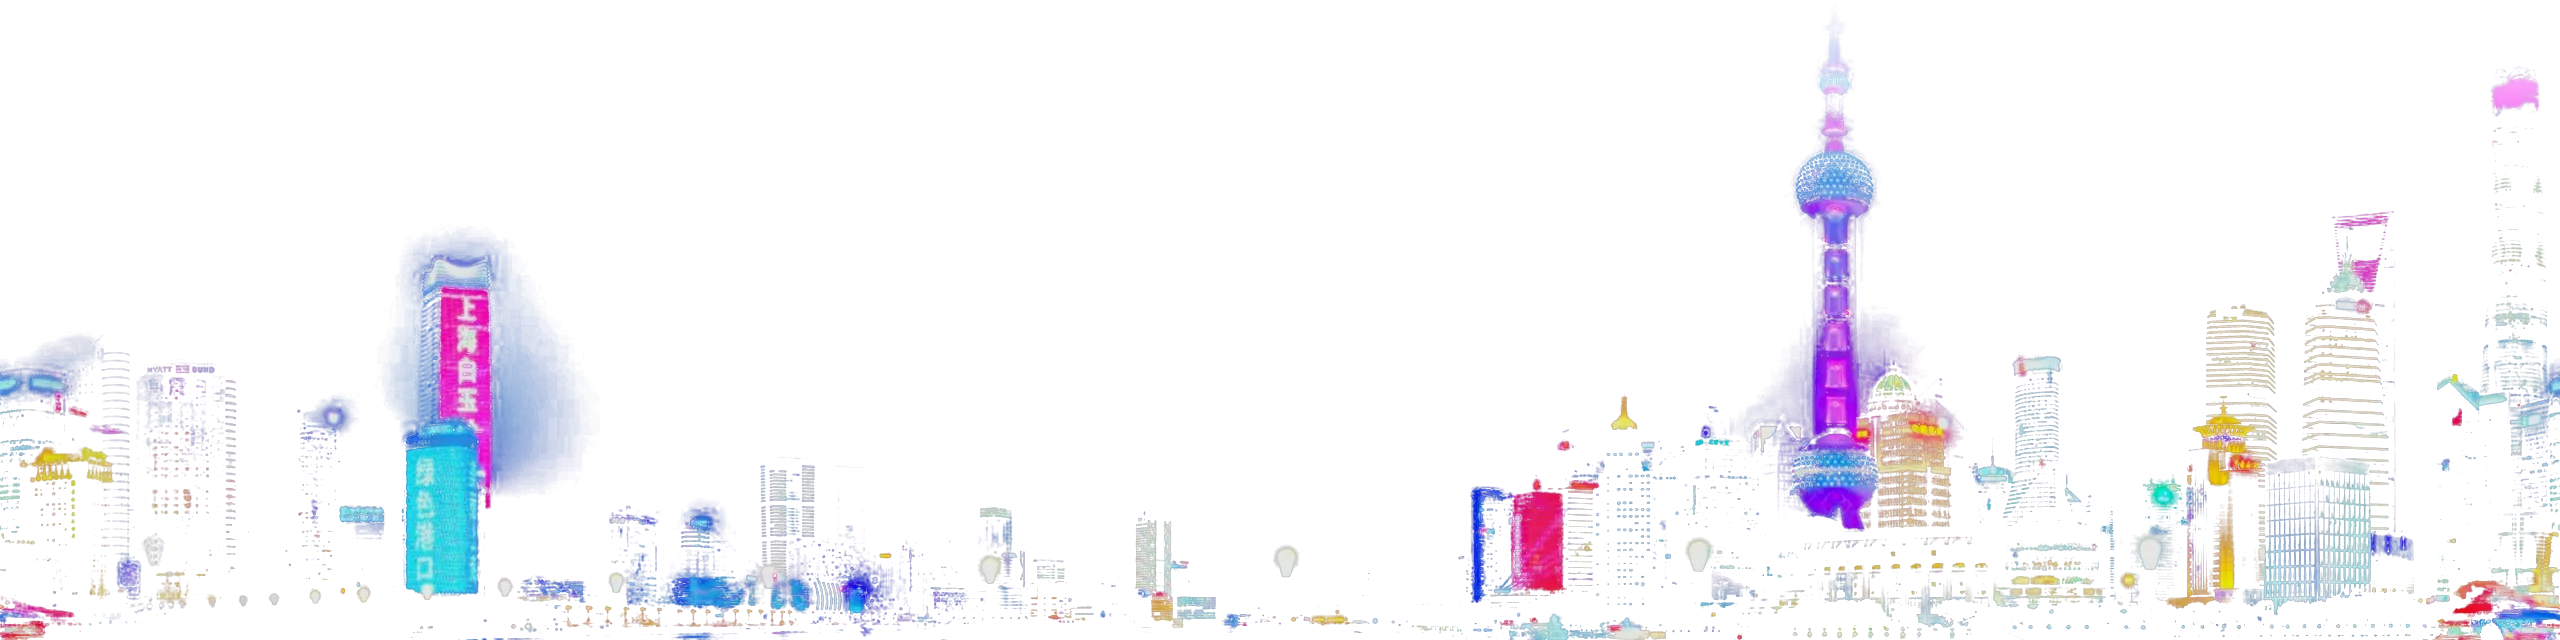
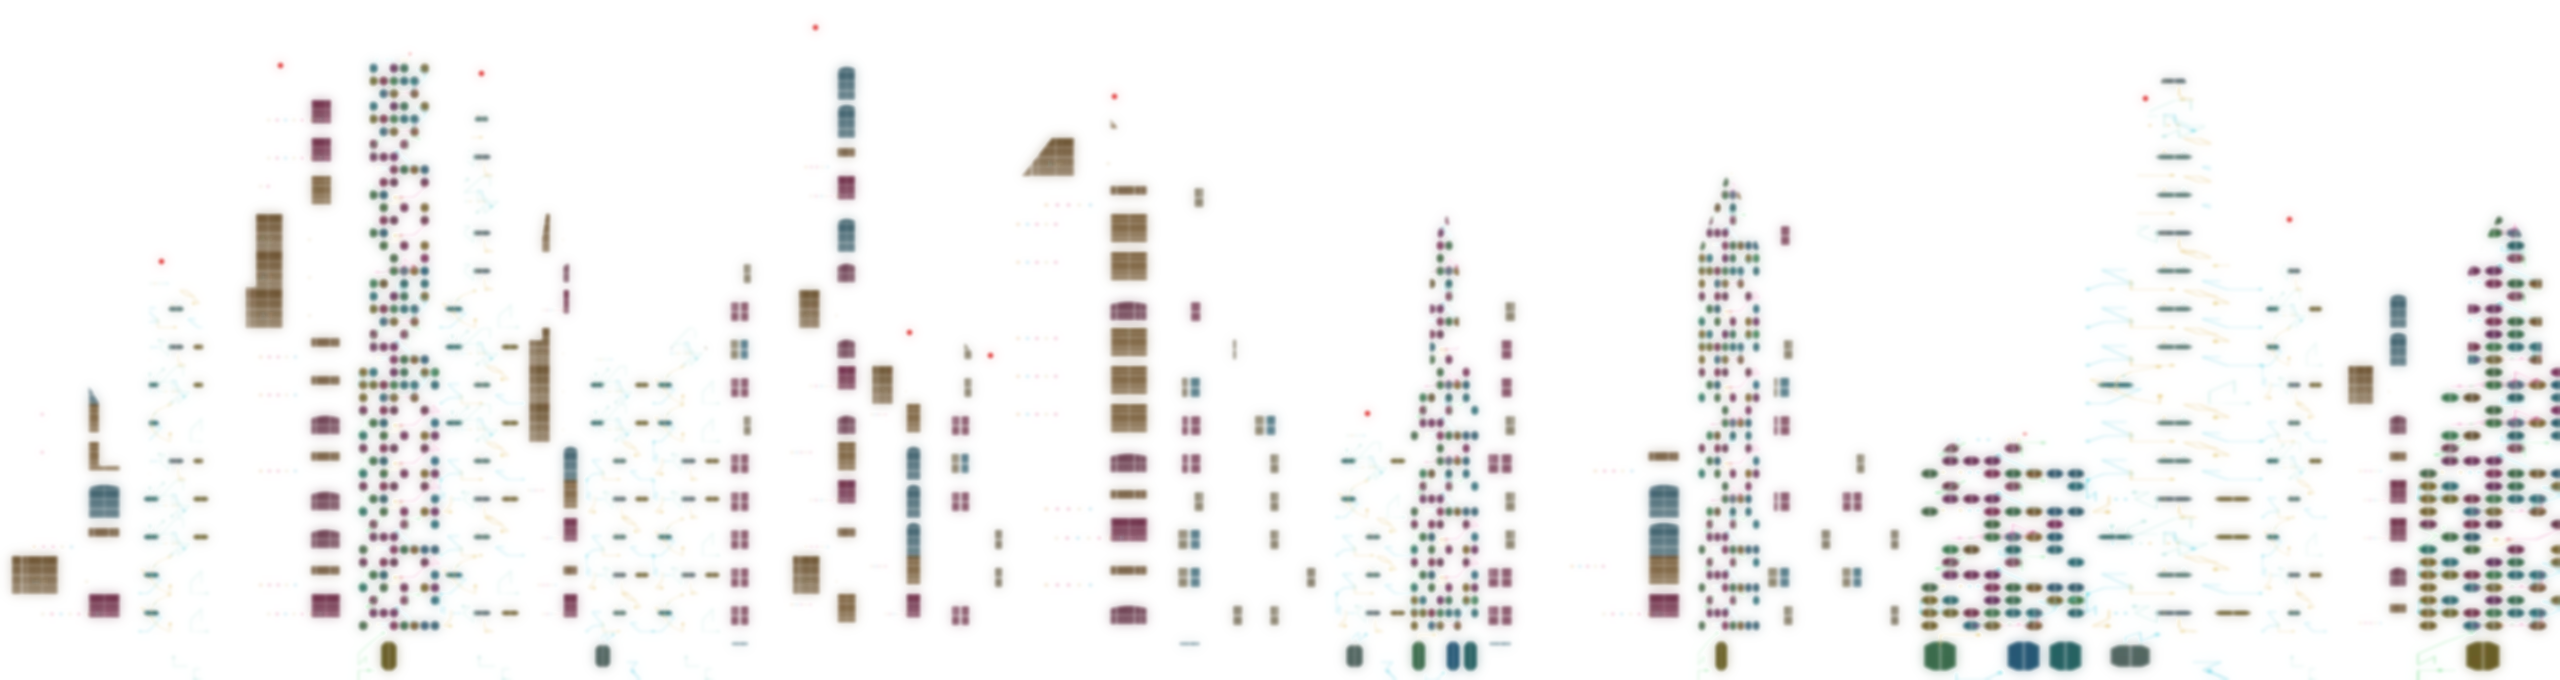
[NE-61] 遠景改為組出的樓群，不再使用真實城市照片

diff --git a/pm/Nest-Egg/[NE-61]替換遠景天際線與中景樓群.md b/pm/Nest-Egg/[NE-61]替換遠景天際線與中景樓群.md
@@ -36,7 +36,7 @@
 ## 內文
 
 遠景與中景是程式畫的剪影與小點，看不出是城市。
-遠景換成真實城市天際線（霓虹塔、發光招牌），取全景圖的一段、左右接縫交叉淡化、上緣淡出，亮處（窗光、霓虹）另成一層自發光；中景由立面模組組出一排樓群：兩排前後（後排較暗較矮）、輪廓有階梯、斜屋頂、人字屋頂、切角與帶尖塔的樓，屋頂有天線、水塔、天線上的紅色信標、碟型天線與通風管，窗光柔邊。兩層的窗光與信標與立面共用同一份閃爍著色器。
+遠景一開始用真實城市天際線照片，使用者看了覺得太突兀（2026-10-03），改成與中景同一套做法：由立面模組組出遠方樓群（兩排前後、較小較暗、有尖塔與屋頂雜物），窗光另成一層自發光；中景由立面模組組出一排樓群：兩排前後（後排較暗較矮）、輪廓有階梯、斜屋頂、人字屋頂、切角與帶尖塔的樓，屋頂有天線、水塔、天線上的紅色信標、碟型天線與通風管，窗光柔邊。兩層的窗光與信標與立面共用同一份閃爍著色器。
 還沒換的是近景（前景管線與剪影）。
 驗收：只畫背景的預覽截圖前後對照；暗場可讀性量測沒有比換之前更差（乾淨美術環境下全部通過）。
 
@@ -52,3 +52,5 @@
 ### 截圖
 
 ![遠景與中景（左：換之前，右：換之後）](images/NE-61-backdrop.png)
+
+![過場舞台（遠景改為組出的樓群）](images/NE-61-stages-nonreal.png)

diff --git a/.claude/skills/free-asset-pipeline/SKILL.md b/.claude/skills/free-asset-pipeline/SKILL.md
@@ -15,6 +15,7 @@ description: 把免費（CC0）高解析度素材換進 Nest Egg 場景的完整
 - **所有加工都由清單驅動、可重跑**。不要手改 `art/environment/**` 裡的成品圖——改清單（調色、裁切）再重跑，否則下次重跑就被蓋掉。
 - 調色參數只放清單（JSON），不寫進程式。
 - 角色（`art/characters/**`、立繪、敵人）由別人處理，**不碰**。使用者可能同時在改角色美術：驗證環境素材時，用乾淨的 git worktree（見 §6）量測，別把角色變動算進環境素材的帳。
+- **不要把照片等級的現實場景放進遊戲**（使用者 2026-10-03：「超突兀」）：真實城市天際線（含看得出地名與招牌的）、實景照片一律不用，`process_backdrop.py` 的 `pano_skyline` 保留但不要用在遊戲裡。遠景、中景用 `city_blocks` 以立面模組組出風格一致的樓群。可用的照片素材僅限抽象的天空與雲（暴雨雲、夜空），且要先調暗調色；不確定時先問。
 - **使用者的美術偏好（2026-10-03）**：盡量少用純矩形、方形、單純弧形（半圓頂、拱窗、膠囊窗）；多一點裝飾、特效與動畫。實作上：樓群用階梯、斜屋頂、人字屋頂、切角、尖塔輪廓，屋頂放天線、水塔、碟型天線、通風管與信標；窗戶用切角八邊形加窗格；牆面加電路走線、LED 指示燈、水管、冷氣機、攝影機；窗光邊緣柔化；窗光會閃、信標會明滅、植物會搖。
 
 ## 1. 環境
